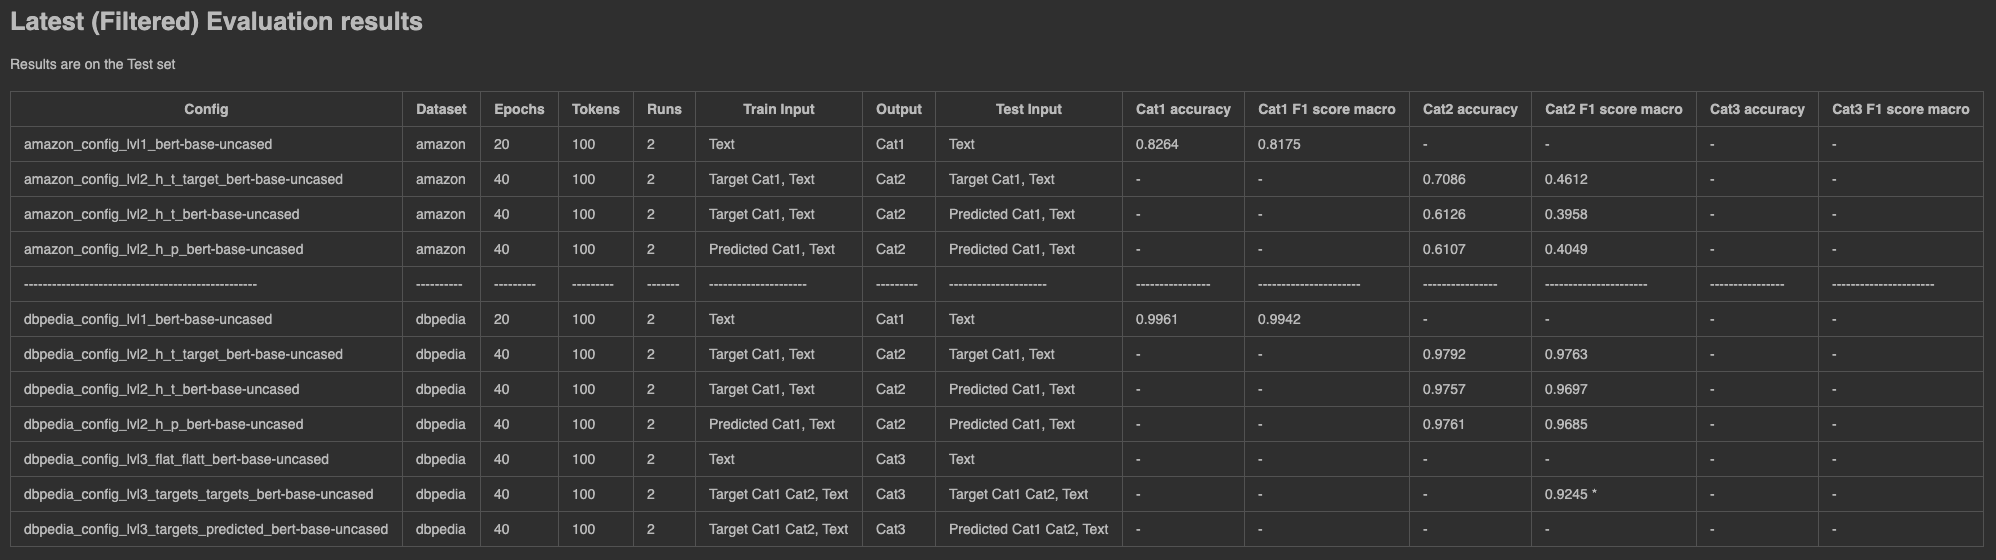
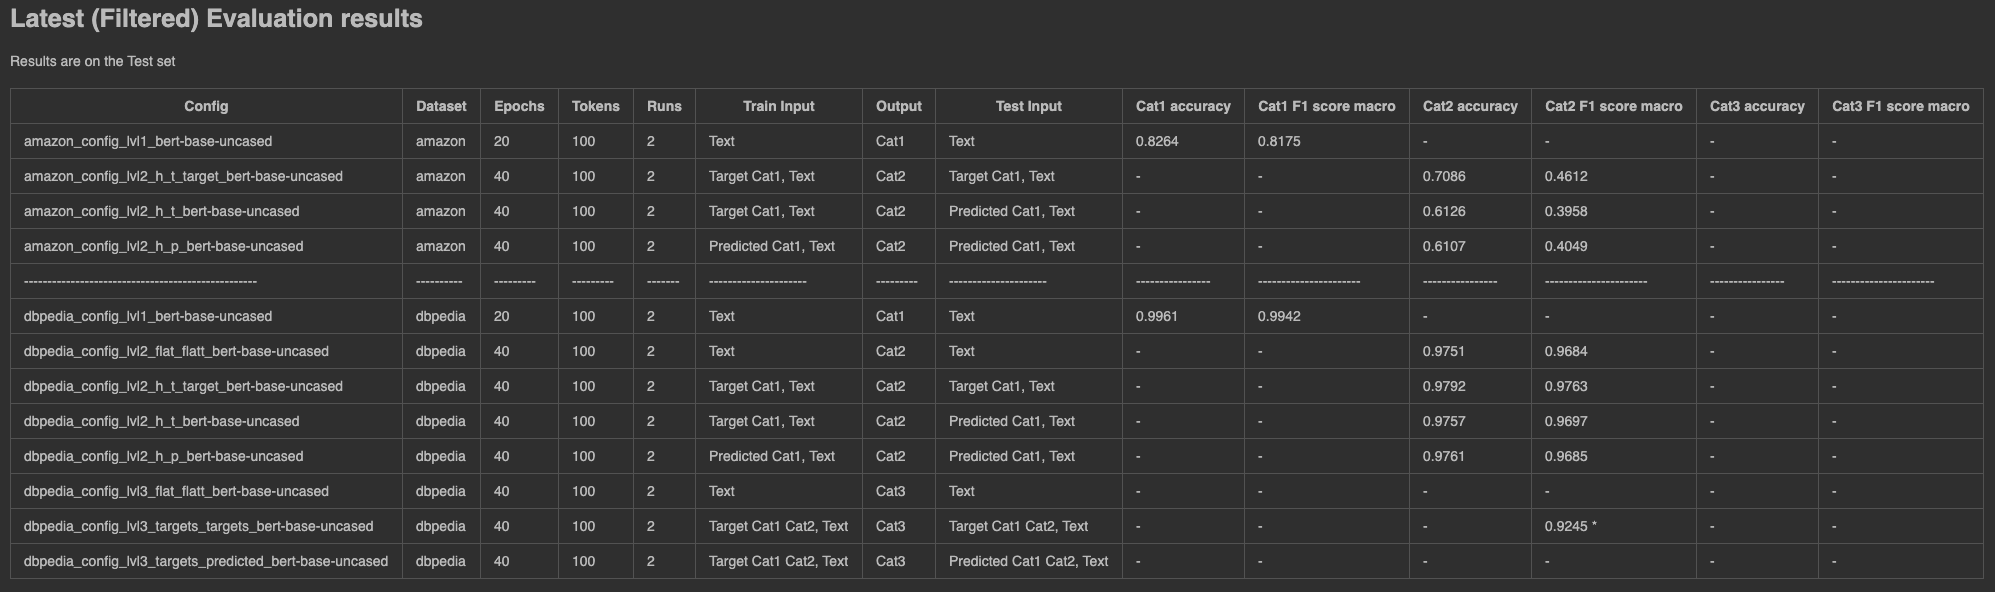
Updated visualization and results

diff --git a/README.md b/README.md
@@ -28,7 +28,7 @@ Each document contains: Title, Text, Cat1, Cat2, Cat3
 | 5  | amazon  | Target Cat1, Text      | Cat2   | Target Cat1, Text         | x      |
 | 6  | amazon  | Target Cat1, Text      | Cat2   | Predicted Cat1, Text      | x      |
 | 7  | amazon  | Predicted Cat1, Text   | Cat2   | Text                      |        |
-| 8  | amazon  | Predicted Cat1, Text   | Cat2   | Target Cat1, Text         | x  ?   |
+| 8  | amazon  | Predicted Cat1, Text   | Cat2   | Target Cat1, Text         |        |
 | 9  | amazon  | Predicted Cat1, Text   | Cat2   | Predicted Cat1, Text      | x  ?   |
 | -  | ------- | ---------------------- | ------ | ------------------------- | ------ |
 | 10 | dbpedia | Text                   | Cat1   | Text                      | x      |
@@ -39,7 +39,7 @@ Each document contains: Title, Text, Cat1, Cat2, Cat3
 | 15 | dbpedia | Target Cat1, Text      | Cat2   | Target Cat1, Text         | x      |
 | 16 | dbpedia | Target Cat1, Text      | Cat2   | Predicted Cat1, Text      | x      |
 | 17 | dbpedia | Predicted Cat1, Text   | Cat2   | Text                      |        |
-| 18 | dbpedia | Predicted Cat1, Text   | Cat2   | Target Cat1, Text         | x      |
+| 18 | dbpedia | Predicted Cat1, Text   | Cat2   | Target Cat1, Text         |        |
 | 19 | dbpedia | Predicted Cat1, Text   | Cat2   | Predicted Cat1, Text      | x      |
 | 20 | dbpedia | Text                   | Cat3   | Text                      | x      |
 | 21 | dbpedia | Target Cat2, Text      | Cat3   | Text                      |        |
@@ -64,6 +64,7 @@ Results are on the Test set
 | amazon_config_lvl2_h_p_bert-base-uncased                | amazon  | 40     | 100    | 2    | Predicted Cat1, Text   | Cat2   | Predicted Cat1, Text      | -             | -                   | 0.6107        | 0.4049              | -             | -                   |
 |-------------------------------------------------- | ----------|--------- |--------- |------- | ---------------------| ---------| ---------------------| ----------------| ----------------------| ----------------| ----------------------| ----------------| ----------------------|
 | dbpedia_config_lvl1_bert-base-uncased                   | dbpedia | 20     | 100    | 2    | Text                   | Cat1   | Text                      | 0.9961        | 0.9942              | -             | -                   | -             | -                   |
+| dbpedia_config_lvl2_flat_flatt_bert-base-uncased        | dbpedia | 40     | 100    | 2    | Text                   | Cat2   | Text                      | -             | -                   | 0.9751        | 0.9684              | -             | -                   |
 | dbpedia_config_lvl2_h_t_target_bert-base-uncased        | dbpedia | 40     | 100    | 2    | Target Cat1, Text      | Cat2   | Target Cat1, Text         | -             | -                   | 0.9792        | 0.9763              | -             | -                   |
 | dbpedia_config_lvl2_h_t_bert-base-uncased               | dbpedia | 40     | 100    | 2    | Target Cat1, Text      | Cat2   | Predicted Cat1, Text      | -             | -                   | 0.9757        | 0.9697              | -             | -                   |
 | dbpedia_config_lvl2_h_p_bert-base-uncased               | dbpedia | 40     | 100    | 2    | Predicted Cat1, Text   | Cat2   | Predicted Cat1, Text      | -             | -                   | 0.9761        | 0.9685              | -             | -                   |
